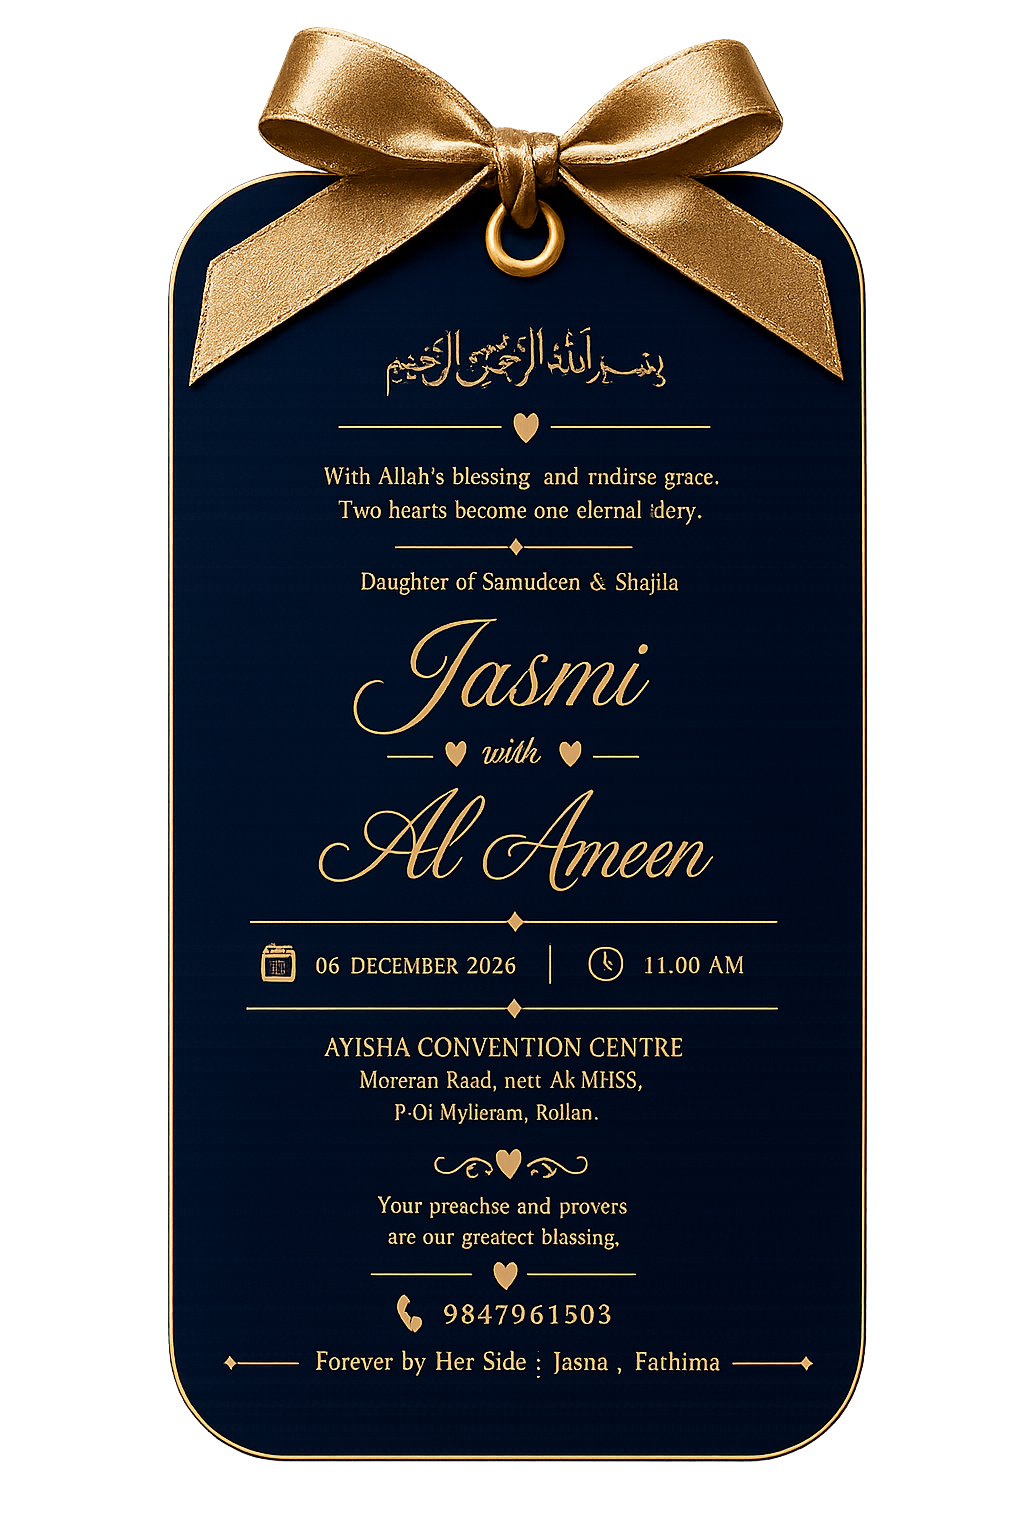
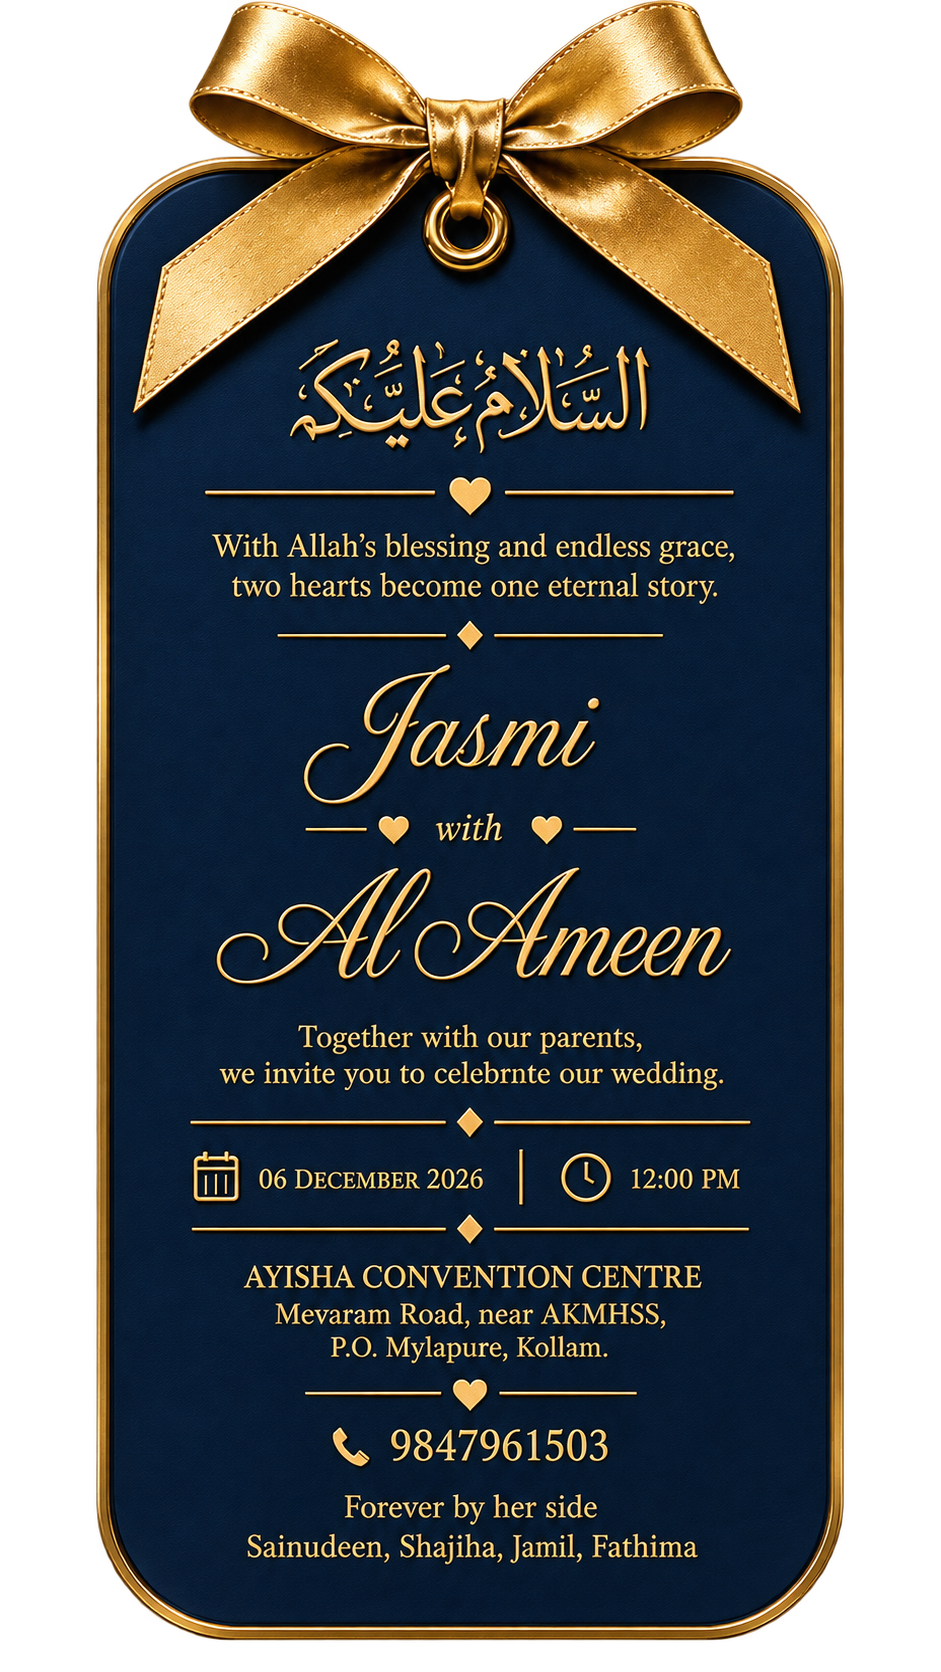
pre final

diff --git a/src/pages/Page6.jsx b/src/pages/Page6.jsx
@@ -61,13 +61,14 @@ function GoldDivider() {
 }
 
 export default function Page6() {
-  const GOOGLE_CALENDAR_URL =
-    "https://calendar.google.com/calendar/render?action=TEMPLATE" +
-    "&text=Wedding+Reception" +
-    "&dates=20261206T063000Z%2F20261206T073000Z" +
-    "&details=We+look+forward+to+celebrating+with+you.+Your+presence+will+make+our+celebration+even+more+memorable." +
-    "&location=Ayisha+Convention+Centre%2C+Mevaram+Road%2C+near+AKMHSS%2C+Mylapure%2C+Umayanalloor%2C+Thazhuthala%2C+Kerala+691020";
-
+const GOOGLE_CALENDAR_URL =
+  "https://calendar.google.com/calendar/render?action=TEMPLATE" +
+  "&text=Wedding+Reception" +
+  "&dates=20261206T120000%2F20261206T150000" +
+  "&ctz=Asia%2FKolkata" +
+  "&details=We+look+forward+to+celebrating+with+you.+Your+presence+will+make+our+celebration+even+more+memorable." +
+  "&location=Ayisha+Convention+Centre%2C+Mevaram+Road%2C+near+AKMHSS%2C+Mylapure%2C+Umayanalloor%2C+Thazhuthala%2C+Kerala+691020";
+    
   return (
     <section className="relative z-10 flex min-h-[100svh] w-full items-center justify-center overflow-hidden px-5 py-10 text-center">
       <motion.div
